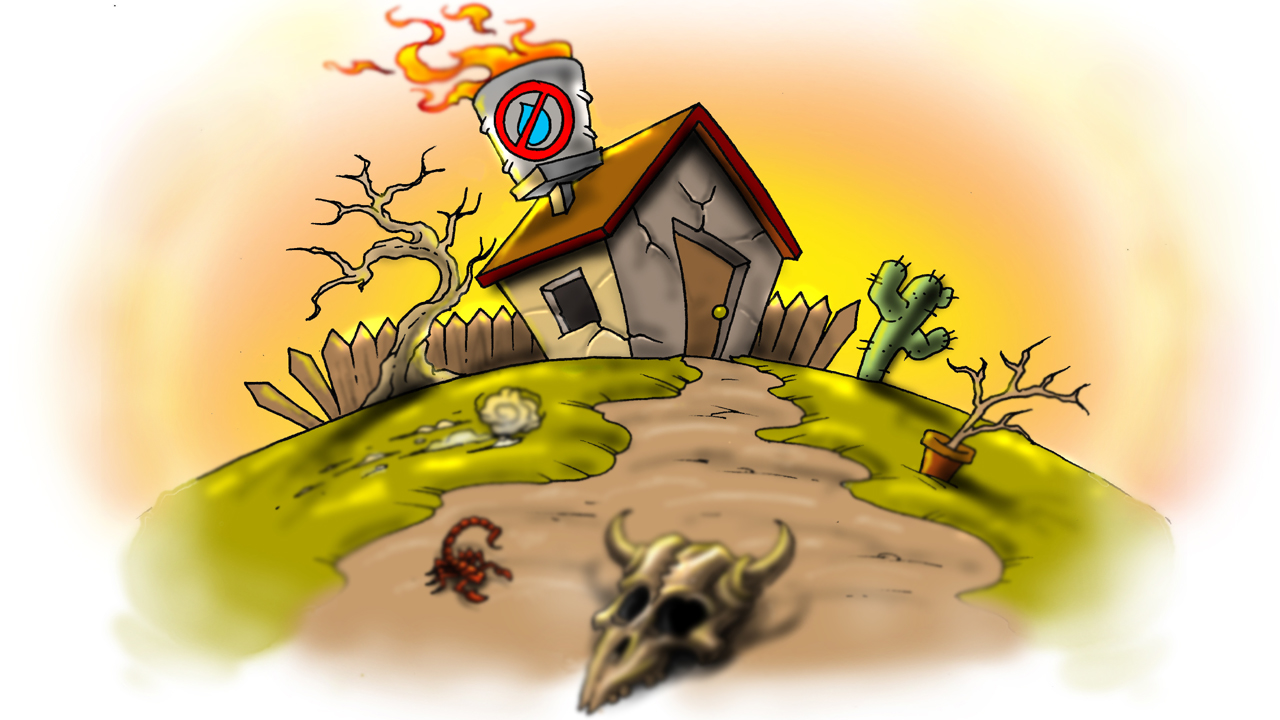
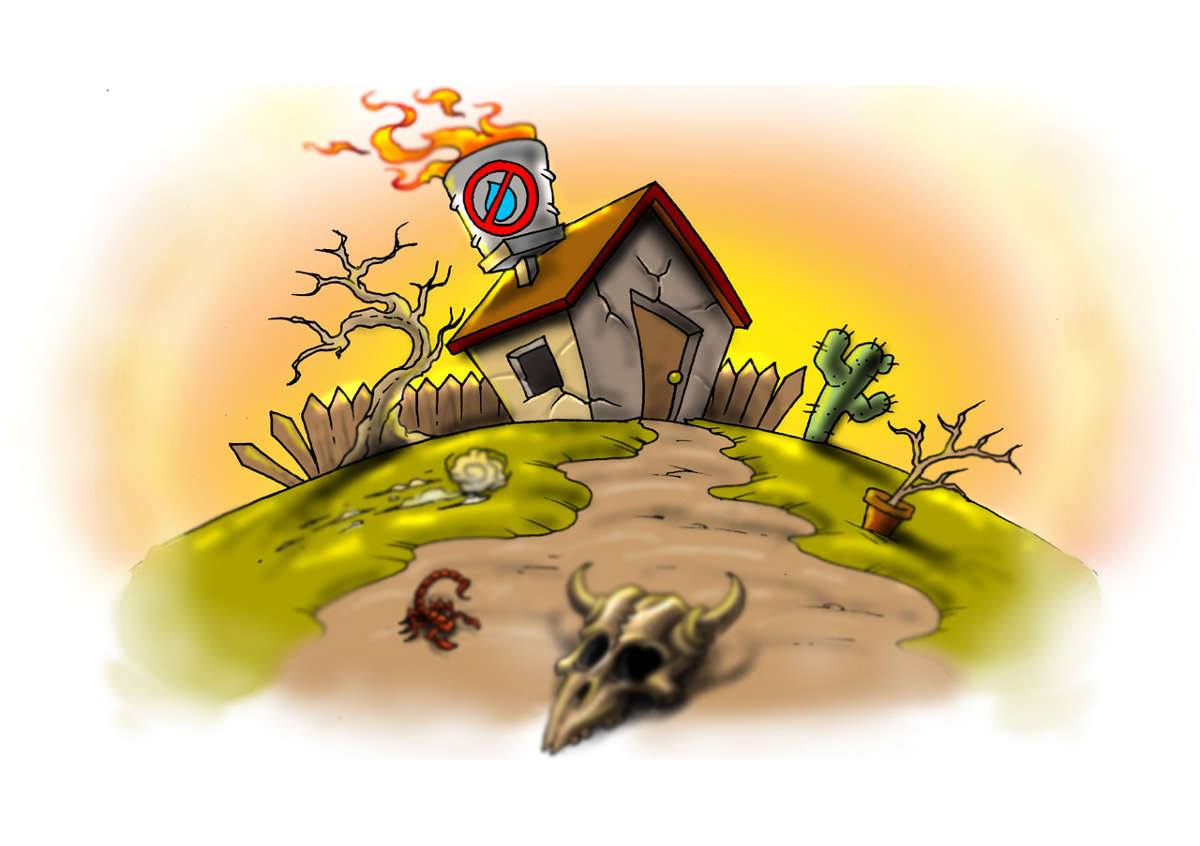
Adaptando imagenes a la nueva resolucion (la xo tiene 1200x900 al final...)

diff --git a/AyniActivity.py b/AyniActivity.py
@@ -37,19 +37,10 @@ class AyniActivity(sugar.activity.activity.Activity):
         self._pygamecanvas.run_pygame(ayni.run_in_sugar)
 
     def build_toolbar(self):        
-        stop_play = sugar.graphics.toolbutton.ToolButton('media-playback-stop')
-        stop_play.set_tooltip(_("Stop"))
-        stop_play.set_accelerator(_('<ctrl>space'))
-        stop_play.connect('clicked', self._stop_play_cb)
-
-        toolbar = gtk.Toolbar()
-        toolbar.insert(stop_play, 0)
-        
-        toolbox = sugar.activity.activity.ActivityToolbox(self)
-        toolbox.add_toolbar(_("Pygame"), toolbar)
-        
-        toolbox.show_all()
-        self.set_toolbox(toolbox)
+        toolbar = sugar.activity.activity.ActivityToolbar(self)
+        toolbar.show()
+        self.set_toolbox(toolbar)
+        return toolbar
 
     def _stop_play_cb(self, button):
         # Pause or unpause the game.

diff --git a/world.py b/world.py
@@ -29,7 +29,7 @@ class World:
         if config.LOWRES:
             resolution = (640, 720 / 2)
         else:
-            resolution = (1280, 720)
+            resolution = (1200, 846)
 
         if in_sugar_olpc:
             self.screen = pygame.display.get_surface()
